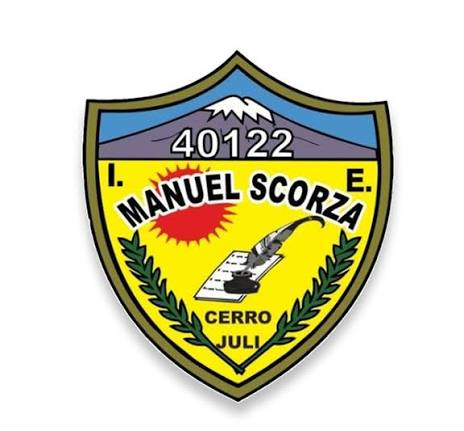
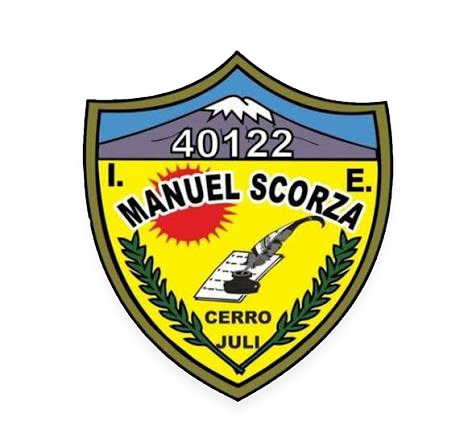
Fondo blanco del escudo removido

Changed region(s): [[0.181, 0.4524, 0.8448, 0.9652], [0.8448, 0.3619, 0.875, 0.4524], [0.1509, 0.3619, 0.181, 0.4524]]

diff --git a/web/src/app/(auth)/login/login.css b/web/src/app/(auth)/login/login.css
@@ -68,11 +68,6 @@
   height: 96px;
   margin-bottom: 2rem;
   place-items: center;
-  overflow: hidden;
-  border: 1px solid rgba(255, 255, 255, 0.35);
-  border-radius: 18px;
-  background: #fff;
-  box-shadow: 0 8px 20px rgba(5, 17, 34, 0.2);
 }
 
 .login-brand-mark img {

diff --git a/web/src/app/(panel)/panel.css b/web/src/app/(panel)/panel.css
@@ -43,11 +43,6 @@
   height: 56px;
   flex: none;
   place-items: center;
-  overflow: hidden;
-  border: 1px solid rgba(255, 255, 255, 0.35);
-  border-radius: 16px;
-  background: #fff;
-  box-shadow: 0 8px 20px rgba(5, 17, 34, 0.2);
 }
 
 .rail-mark img {
